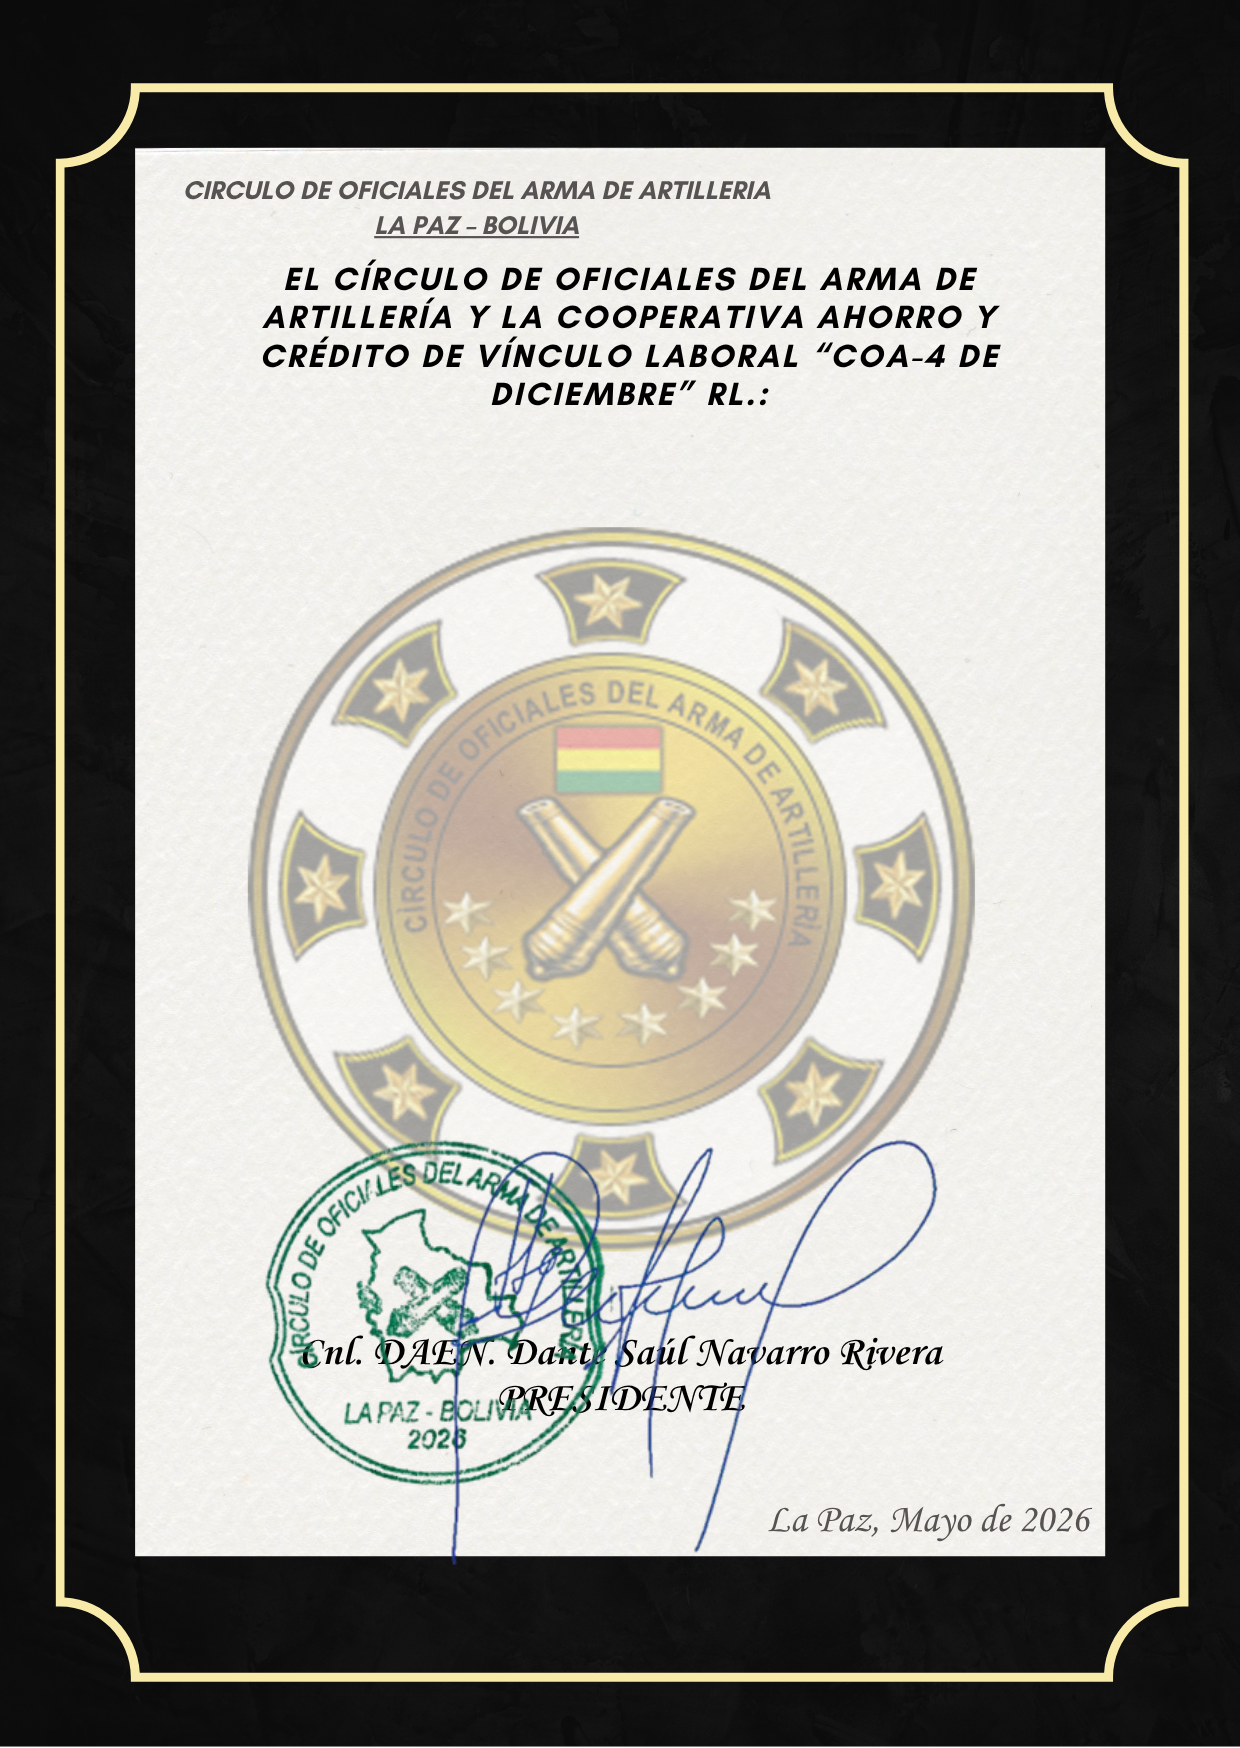
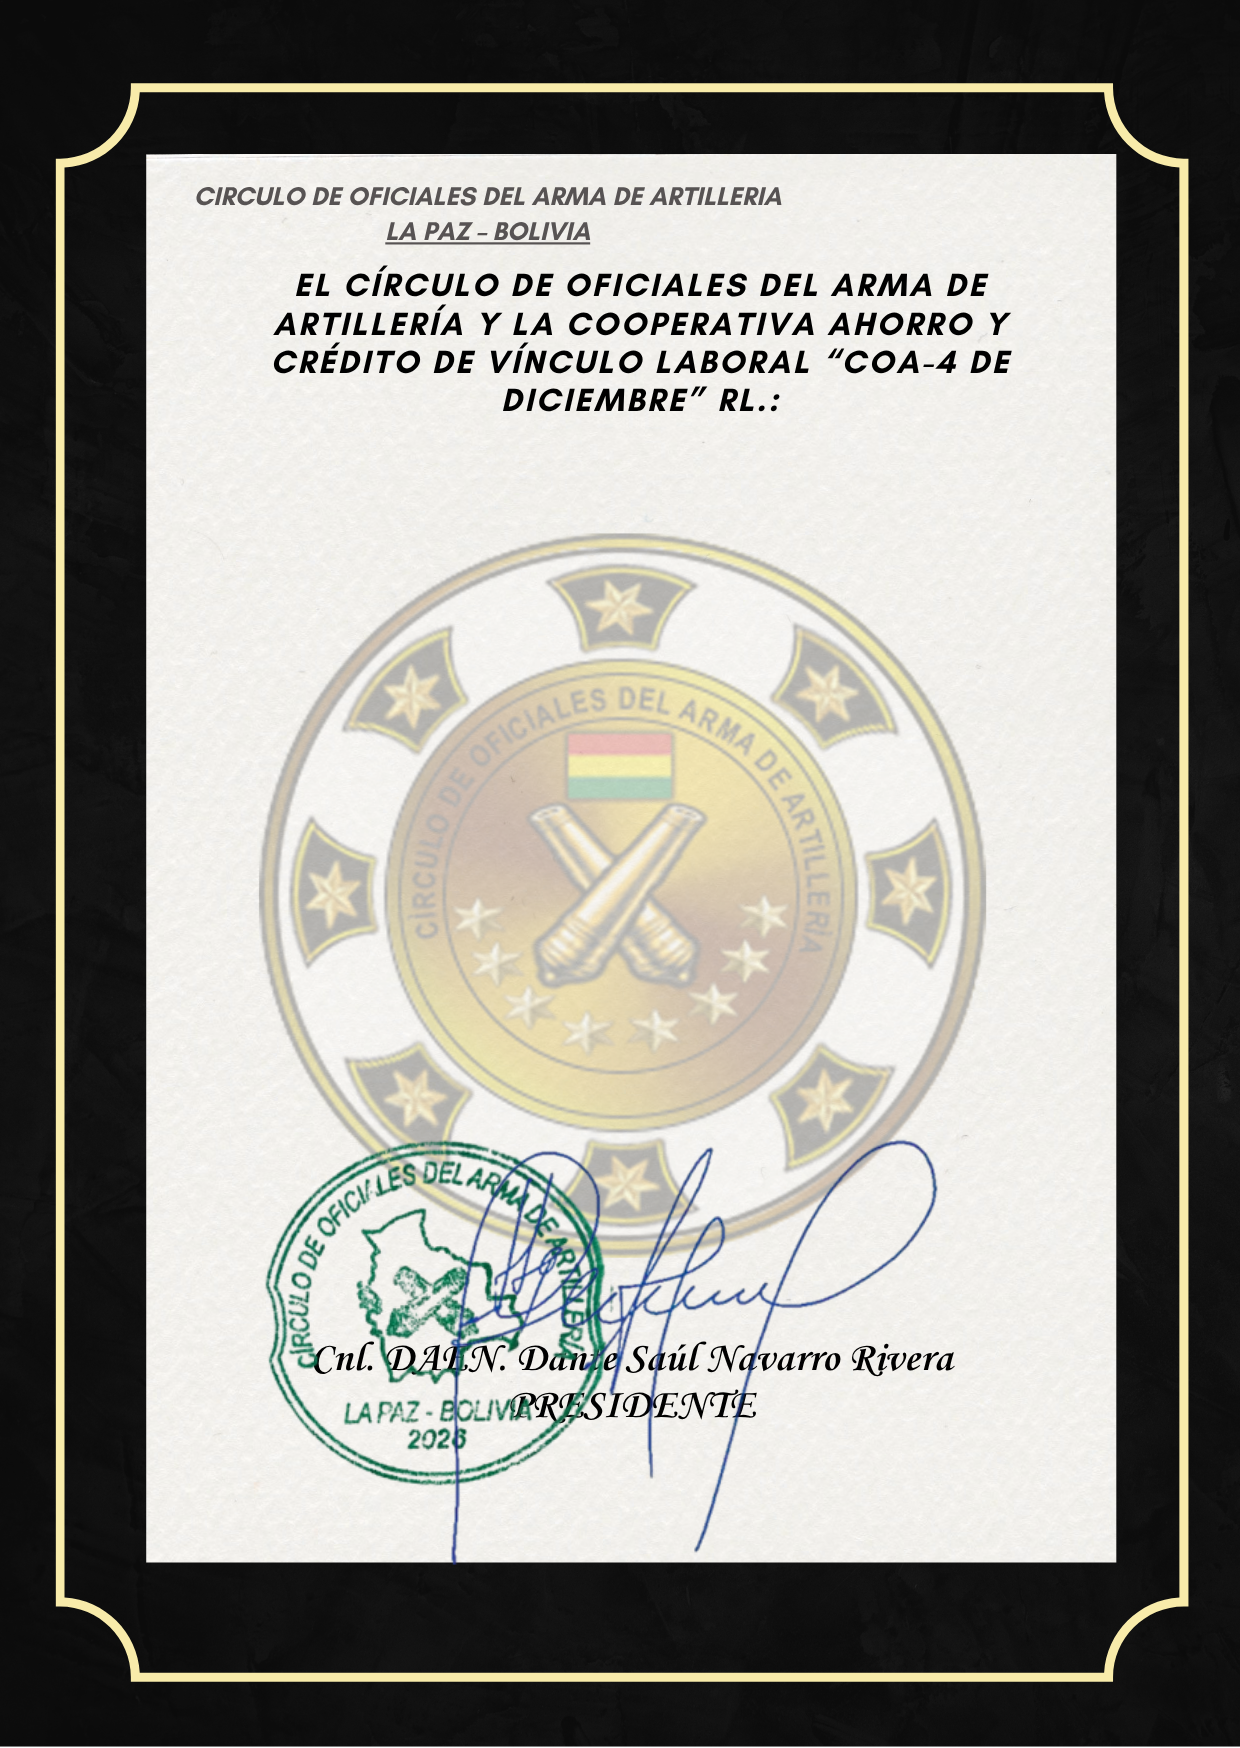
[FIX]arreglos esquela cumpleaños

Changed region(s): [[0.1839, 0.278, 0.7968, 0.8341], [0.1226, 0.0618, 0.8887, 0.2471], [0.0919, 0.0927, 0.9194, 0.8959]]

diff --git a/models/res_partner.py b/models/res_partner.py
@@ -270,8 +270,6 @@ class ResPartner(models.Model):
     from io import BytesIO
     import textwrap
     from PIL import Image, ImageDraw, ImageFont
-
-
     def action_generate_birthday_card(self):
         self.ensure_one()
 
@@ -286,8 +284,7 @@ class ResPartner(models.Model):
 
         # 2. Carga local y segura de fuentes desde el módulo (Solución definitiva Docker)
         font_path_italic = get_module_resource('rod_cooperativa_aportes', 'static', 'src', 'fonts', 'timesi.ttf')
-        font_path_bold_italic = get_module_resource('rod_cooperativa_aportes', 'static', 'src', 'fonts',
-                                                    'timesbi.ttf')
+        font_path_bold_italic = get_module_resource('rod_cooperativa_aportes', 'static', 'src', 'fonts', 'timesbi.ttf')
 
         if not font_path_italic or not font_path_bold_italic:
             raise UserError(
@@ -404,7 +401,7 @@ class ResPartner(models.Model):
                     for word in line_words:
                         global_char_idx = text.find(word, global_char_idx)
                         is_bold = (
-                                    start_bold_idx != -1 and global_char_idx >= start_bold_idx and global_char_idx < end_bold_idx)
+                                start_bold_idx != -1 and global_char_idx >= start_bold_idx and global_char_idx < end_bold_idx)
 
                         f_actual = font_bold_italic if is_bold else font_regular
                         draw.text((x_cursor, y), word, fill=color_texto, font=f_actual)
@@ -422,7 +419,7 @@ class ResPartner(models.Model):
                 for word in line_words:
                     temp_char_idx = text.find(word, temp_char_idx)
                     is_bold = (
-                                start_bold_idx != -1 and temp_char_idx >= start_bold_idx and temp_char_idx < end_bold_idx)
+                            start_bold_idx != -1 and temp_char_idx >= start_bold_idx and temp_char_idx < end_bold_idx)
                     f_actual = font_bold_italic if is_bold else font_regular
                     words_width += get_word_width(word, f_actual)
                     temp_char_idx += len(word)
@@ -436,7 +433,7 @@ class ResPartner(models.Model):
                 for word in line_words:
                     global_char_idx = text.find(word, global_char_idx)
                     is_bold = (
-                                start_bold_idx != -1 and global_char_idx >= start_bold_idx and global_char_idx < end_bold_idx)
+                            start_bold_idx != -1 and global_char_idx >= start_bold_idx and global_char_idx < end_bold_idx)
 
                     f_actual = font_bold_italic if is_bold else font_regular
                     draw.text((x_cursor, y), word, fill=color_texto, font=f_actual)
@@ -463,7 +460,41 @@ class ResPartner(models.Model):
         current_y = draw_justified_paragraph_with_bold_italic(bloque_cierre, "", font_body, font_name, current_y,
                                                               indent=indent_pixels)
 
+        # =========================================================================
+        # CONFIGURACIÓN EXCLUSIVA DEL PIE DE PÁGINA (SÓLO LUGAR Y FECHA AUTOMÁTICA)
+        # =========================================================================
+
+        # 1. Generar el mes y año dinámicamente en español según la fecha del sistema
+        meses = [
+            "Enero", "Febrero", "Marzo", "Abril", "Mayo", "Junio",
+            "Julio", "Agosto", "Septiembre", "Octubre", "Noviembre", "Diciembre"
+        ]
+        fecha_actual = datetime.now()
+        mes_nombre = meses[fecha_actual.month - 1]
+        ano_actual = fecha_actual.year
+
+        texto_fecha_pie = f"La Paz, {mes_nombre} de {ano_actual}"
+
+        # 2. Coordenada Y calibrada para que se estampe debajo de los sellos impresos de la plantilla
+        # Puedes modificar este número (ej: 820) si necesitas subir o bajar la línea de la fecha
+        y_fecha = 1500
+
+        # 3. Cargar la tipografía itálica estándar para la fecha del pie de página
+        try:
+            font_pie = ImageFont.truetype(font_path_italic, 30)
+        except IOError:
+            font_pie = font_body
+
+        # 4. Calcular el ancho exacto para lograr un centrado perfecto y simétrico en la tarjeta
+        w_fecha = get_word_width(texto_fecha_pie, font_pie)
+        x_fecha = (ancho_imagen - w_fecha) // 2
+
+        # 5. Pintar la fecha en la imagen
+        draw.text((x_fecha, y_fecha), texto_fecha_pie, fill=color_texto, font=font_pie)
+
+        # =========================================================================
         # 6. Conversión de la imagen resultante a binario para Odoo
+        # =========================================================================
         buffer = BytesIO()
         img.save(buffer, format="JPEG", quality=95)
         img_str = base64.b64encode(buffer.getvalue())
